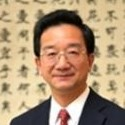
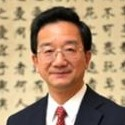
update chinese speakers photos

diff --git a/_speakers-and-moderators/4-panel-3.md b/_speakers-and-moderators/4-panel-3.md
@@ -75,7 +75,7 @@ permalink: /speakers-and-moderators/panel-3/
 
 <div class="row is-desktop">
     <div class="col is-10-mobile is-10-tablet is-3-desktop is-3-widescreen is-3-fullhd">
-    <img src="/images/speakers-panel 3- wang xuehua.png" alt="Photo of Wang Xuehua"> 
+    <img src="/images/speakers-panel 3-wang xuehua.jpg" alt="Photo of Wang Xuehua"> 
     </div>
     <div class="col">
       <p>

diff --git a/_speakers-and-moderators/5-closing-ceremony.md b/_speakers-and-moderators/5-closing-ceremony.md
@@ -69,7 +69,7 @@ permalink: /speakers-and-moderators/closing-ceremony/
 
 <div class="row is-desktop">
     <div class="col is-10-mobile is-10-tablet is-3-desktop is-3-widescreen is-3-fullhd">
-    <img src="/images/speakers-closing-liu chao.png" alt="Photo of Liu Chao"> 
+    <img src="/images/speakers-closing-liu chao.jpg" alt="Photo of Liu Chao"> 
     </div>
     <div class="col">
     <p>
